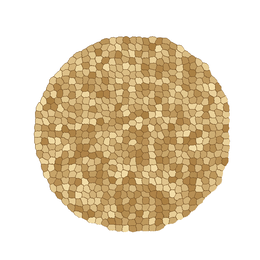
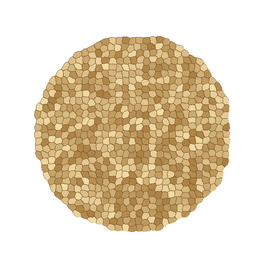
Complete chemotaxis (42) and growth-stopped core (36) results in the dial explorer

Changed region(s): [[0.1231, 0.1231, 0.8923, 0.8923]]

diff --git a/dials.js b/dials.js
@@ -1,1 +1,1 @@
-var DIALS={"mcs":[0,200,400,600,800,990],"dials":[{"key":"I","name":"Chemical attraction","desc":"Cells release a signal and move toward it (positive) or away from it (negative). The strength range is still a placeholder.","new":true,"prefer":"d","partial":"24 of 42 runs in","levels":[{"label":"-15","value":-15.0,"vid":"I04","seeds":3,"expected":6,"frames":["img/dial/I04_0000.png","img/dial/I04_0200.png","img/dial/I04_0400.png","img/dial/I04_0600.png","img/dial/I04_0800.png","img/dial/I04_0990.png"],"m":{"d":{"mean":[499.481,522.981,547.371,567.117,580.583,584.914],"sd":[0.0,0.154,0.23,0.081,0.421,2.182]},"c":{"mean":[0.656,0.993,0.931,0.864,0.776,0.552],"sd":[0.0,0.024,0.032,0.044,0.054,0.093]},"s":{"mean":[0.968,0.987,0.982,0.973,0.962,0.928],"sd":[0.0,0.002,0.002,0.004,0.008,0.025]},"n":{"mean":[1.0,1.0,1.0,1.0,1.0,1.0],"sd":[0.0,0.0,0.0,0.0,0.0,0.0]}}},{"label":"-5","value":-5.0,"vid":"I02","seeds":6,"expected":6,"frames":["img/dial/I02_0000.png","img/dial/I02_0200.png","img/dial/I02_0400.png","img/dial/I02_0600.png","img/dial/I02_0800.png","img/dial/I02_0990.png"],"m":{"d":{"mean":[499.481,505.81,514.066,520.825,525.466,528.377],"sd":[0.0,0.101,0.192,0.163,0.257,0.205]},"c":{"mean":[0.656,1.067,1.051,1.037,1.009,0.989],"sd":[0.0,0.004,0.005,0.009,0.014,0.014]},"s":{"mean":[0.968,0.988,0.987,0.984,0.98,0.977],"sd":[0.0,0.001,0.001,0.002,0.002,0.003]},"n":{"mean":[1.0,1.0,1.0,1.0,1.0,1.0],"sd":[0.0,0.0,0.0,0.0,0.0,0.0]}}},{"label":"0","value":0.0,"vid":"I01","seeds":6,"expected":6,"frames":["img/dial/I01_0000.png","img/dial/I01_0200.png","img/dial/I01_0400.png","img/dial/I01_0600.png","img/dial/I01_0800.png","img/dial/I01_0990.png"],"m":{"d":{"mean":[499.481,496.148,495.112,494.553,494.422,494.449],"sd":[0.0,0.108,0.143,0.109,0.19,0.069]},"c":{"mean":[0.656,1.078,1.086,1.092,1.092,1.091],"sd":[0.0,0.004,0.007,0.01,0.008,0.005]},"s":{"mean":[0.968,0.988,0.989,0.989,0.989,0.989],"sd":[0.0,0.0,0.001,0.001,0.001,0.001]},"n":{"mean":[1.0,1.0,1.0,1.0,1.0,1.0],"sd":[0.0,0.0,0.0,0.0,0.0,0.0]}}},{"label":"+5","value":5.0,"vid":"I03","seeds":6,"expected":6,"frames":["img/dial/I03_0000.png","img/dial/I03_0200.png","img/dial/I03_0400.png","img/dial/I03_0600.png","img/dial/I03_0800.png","img/dial/I03_0990.png"],"m":{"d":{"mean":[499.481,486.815,477.293,470.031,464.628,460.745],"sd":[0.0,0.175,0.165,0.116,0.137,0.191]},"c":{"mean":[0.656,1.068,1.08,1.09,1.08,1.085],"sd":[0.0,0.006,0.01,0.008,0.005,0.008]},"s":{"mean":[0.968,0.988,0.99,0.992,0.993,0.993],"sd":[0.0,0.001,0.001,0.001,0.001,0.0]},"n":{"mean":[1.0,1.0,1.0,1.0,1.0,1.0],"sd":[0.0,0.0,0.0,0.0,0.0,0.0]}}},{"label":"+15","value":15.0,"vid":"I05","seeds":2,"expected":6,"frames":["img/dial/I05_0000.png","img/dial/I05_0200.png","img/dial/I05_0400.png","img/dial/I05_0600.png","img/dial/I05_0800.png","img/dial/I05_0990.png"],"m":{"d":{"mean":[499.481,470.943,448.936,431.253,416.66,405.097],"sd":[0.0,0.075,0.056,0.049,0.399,0.34]},"c":{"mean":[0.656,1.007,0.995,0.987,0.954,0.953],"sd":[0.0,0.001,0.01,0.005,0.008,0.009]},"s":{"mean":[0.968,0.986,0.989,0.992,0.992,0.992],"sd":[0.0,0.0,0.001,0.001,0.0,0.0]},"n":{"mean":[1.0,1.0,1.0,1.0,1.0,1.0],"sd":[0.0,0.0,0.0,0.0,0.0,0.0]}}},{"label":"+30","value":30.0,"vid":"I07","seeds":1,"expected":6,"frames":["img/dial/I07_0000.png","img/dial/I07_0200.png","img/dial/I07_0400.png","img/dial/I07_0600.png","img/dial/I07_0800.png","img/dial/I07_0990.png"],"m":{"d":{"mean":[499.481,453.837,419.328,390.434,365.435,344.366],"sd":null},"c":{"mean":[0.656,0.903,0.843,0.83,0.801,0.784],"sd":null},"s":{"mean":[0.968,0.985,0.989,0.991,0.99,0.989],"sd":null},"n":{"mean":[1.0,1.0,1.0,1.0,1.0,1.0],"sd":null}}}]},{"key":"H","name":"Growth-stopped core","desc":"Cells grow at the rim but stop growing below a set depth. Smaller value means a larger stopped core.","new":true,"prefer":"d","partial":"26 of 36 runs in","levels":[{"label":"0.85","value":0.85,"vid":"H02","seeds":2,"expected":6,"frames":["img/dial/H02_0000.png","img/dial/H02_0200.png","img/dial/H02_0400.png","img/dial/H02_0600.png","img/dial/H02_0800.png","img/dial/H02_0990.png"],"m":{"d":{"mean":[499.481,499.878,505.055,512.05,519.776,527.329],"sd":[0.0,0.135,0.075,0.047,0.091,0.02]},"c":{"mean":[0.656,1.091,1.101,1.105,1.106,1.102],"sd":[0.0,0.01,0.005,0.009,0.004,0.012]},"s":{"mean":[0.968,0.99,0.992,0.992,0.992,0.993],"sd":[0.0,0.0,0.001,0.002,0.001,0.001]},"n":{"mean":[1.0,1.0,1.0,1.0,1.0,1.0],"sd":[0.0,0.0,0.0,0.0,0.0,0.0]}}},{"label":"0.7","value":0.7,"vid":"H03","seeds":6,"expected":6,"frames":["img/dial/H03_0000.png","img/dial/H03_0200.png","img/dial/H03_0400.png","img/dial/H03_0600.png","img/dial/H03_0800.png","img/dial/H03_0990.png"],"m":{"d":{"mean":[499.481,499.758,504.761,511.233,518.429,525.382],"sd":[0.0,0.127,0.07,0.105,0.217,0.177]},"c":{"mean":[0.656,1.088,1.097,1.097,1.1,1.096],"sd":[0.0,0.005,0.017,0.006,0.009,0.005]},"s":{"mean":[0.968,0.989,0.99,0.991,0.992,0.992],"sd":[0.0,0.001,0.001,0.001,0.001,0.001]},"n":{"mean":[1.0,1.0,1.0,1.0,1.0,1.0],"sd":[0.0,0.0,0.0,0.0,0.0,0.0]}}},{"label":"0.55","value":0.55,"vid":"H04","seeds":6,"expected":6,"frames":["img/dial/H04_0000.png","img/dial/H04_0200.png","img/dial/H04_0400.png","img/dial/H04_0600.png","img/dial/H04_0800.png","img/dial/H04_0990.png"],"m":{"d":{"mean":[499.481,499.654,504.111,509.787,515.959,521.998],"sd":[0.0,0.113,0.076,0.083,0.119,0.043]},"c":{"mean":[0.656,1.086,1.094,1.093,1.096,1.099],"sd":[0.0,0.011,0.007,0.005,0.011,0.01]},"s":{"mean":[0.968,0.989,0.991,0.991,0.991,0.991],"sd":[0.0,0.0,0.001,0.001,0.0,0.001]},"n":{"mean":[1.0,1.0,1.0,1.0,1.0,1.0],"sd":[0.0,0.0,0.0,0.0,0.0,0.0]}}},{"label":"0.4","value":0.4,"vid":"H05","seeds":6,"expected":6,"frames":["img/dial/H05_0000.png","img/dial/H05_0200.png","img/dial/H05_0400.png","img/dial/H05_0600.png","img/dial/H05_0800.png","img/dial/H05_0990.png"],"m":{"d":{"mean":[499.481,499.201,502.784,507.344,512.304,517.131],"sd":[0.0,0.175,0.097,0.101,0.045,0.144]},"c":{"mean":[0.656,1.081,1.099,1.093,1.092,1.095],"sd":[0.0,0.012,0.013,0.011,0.011,0.008]},"s":{"mean":[0.968,0.989,0.99,0.99,0.991,0.991],"sd":[0.0,0.001,0.001,0.001,0.001,0.001]},"n":{"mean":[1.0,1.0,1.0,1.0,1.0,1.0],"sd":[0.0,0.0,0.0,0.0,0.0,0.0]}}},{"label":"0.25","value":0.25,"vid":"H06","seeds":6,"expected":6,"frames":["img/dial/H06_0000.png","img/dial/H06_0200.png","img/dial/H06_0400.png","img/dial/H06_0600.png","img/dial/H06_0800.png","img/dial/H06_0990.png"],"m":{"d":{"mean":[499.481,498.67,500.852,503.911,507.148,510.335],"sd":[0.0,0.146,0.131,0.078,0.097,0.1]},"c":{"mean":[0.656,1.093,1.095,1.092,1.096,1.094],"sd":[0.0,0.007,0.005,0.009,0.01,0.013]},"s":{"mean":[0.968,0.988,0.99,0.991,0.991,0.99],"sd":[0.0,0.001,0.001,0.001,0.001,0.001]},"n":{"mean":[1.0,1.0,1.0,1.0,1.0,1.0],"sd":[0.0,0.0,0.0,0.0,0.0,0.0]}}}]},{"key":"J_cc","name":"Cell-cell contact energy","desc":"How costly it is for two cells to touch. Low holds the cluster together; high loosens it.","levels":[{"label":"low","value":1.0,"vid":"R0001","seeds":6,"frames":["img/dial/R0001_0000.png","img/dial/R0001_0200.png","img/dial/R0001_0400.png","img/dial/R0001_0600.png","img/dial/R0001_0800.png","img/dial/R0001_0990.png"],"m":{"d":{"mean":[499.481,498.584,498.515,498.499,498.462,498.523],"sd":[0.0,0.19,0.149,0.11,0.163,0.125]},"c":{"mean":[0.656,1.161,1.159,1.163,1.161,1.163],"sd":[0.0,0.011,0.009,0.005,0.004,0.005]},"s":{"mean":[0.968,0.996,0.997,0.997,0.997,0.997],"sd":[0.0,0.0,0.0,0.0,0.0,0.0]},"n":{"mean":[1.0,1.0,1.0,1.0,1.0,1.0],"sd":[0.0,0.0,0.0,0.0,0.0,0.0]}}},{"label":"mid","value":25.0,"vid":"R0002","seeds":6,"frames":["img/dial/R0002_0000.png","img/dial/R0002_0200.png","img/dial/R0002_0400.png","img/dial/R0002_0600.png","img/dial/R0002_0800.png","img/dial/R0002_0990.png"],"m":{"d":{"mean":[499.481,495.871,494.866,494.257,493.997,493.857],"sd":[0.0,0.072,0.141,0.088,0.104,0.128]},"c":{"mean":[0.656,1.068,1.084,1.084,1.076,1.08],"sd":[0.0,0.009,0.011,0.01,0.003,0.006]},"s":{"mean":[0.968,0.987,0.988,0.989,0.988,0.989],"sd":[0.0,0.001,0.001,0.001,0.002,0.001]},"n":{"mean":[1.0,1.0,1.0,1.0,1.0,1.0],"sd":[0.0,0.0,0.0,0.0,0.0,0.0]}}},{"label":"high","value":50.0,"vid":"R0003","seeds":6,"frames":["img/dial/R0003_0000.png","img/dial/R0003_0200.png","img/dial/R0003_0400.png","img/dial/R0003_0600.png","img/dial/R0003_0800.png","img/dial/R0003_0990.png"],"m":{"d":{"mean":[499.481,494.225,492.595,491.523,490.923,490.506],"sd":[0.0,0.108,0.203,0.208,0.198,0.143]},"c":{"mean":[0.656,0.662,0.692,0.706,0.716,0.732],"sd":[0.0,0.018,0.021,0.017,0.011,0.02]},"s":{"mean":[0.968,0.963,0.961,0.961,0.96,0.961],"sd":[0.0,0.001,0.002,0.002,0.002,0.001]},"n":{"mean":[1.0,1.0,1.0,1.0,1.0,1.0],"sd":[0.0,0.0,0.0,0.0,0.0,0.0]}}}]},{"key":"J_cm","name":"Cell-medium contact energy","desc":"How costly it is for a cell to touch the surrounding medium. Low lets cells spread out into it.","levels":[{"label":"low","value":1.0,"vid":"R0004","seeds":6,"frames":["img/dial/R0004_0000.png","img/dial/R0004_0200.png","img/dial/R0004_0400.png","img/dial/R0004_0600.png","img/dial/R0004_0800.png","img/dial/R0004_0990.png"],"m":{"d":{"mean":[499.481,354.064,284.598,182.991,66.885,45.01],"sd":[0.0,7.692,4.501,18.603,10.852,4.261]},"c":{"mean":[0.656,0.006,0.004,0.007,0.05,0.086],"sd":[0.0,0.001,0.0,0.002,0.014,0.016]},"s":{"mean":[0.968,0.743,0.68,0.604,0.573,0.618],"sd":[0.0,0.02,0.02,0.035,0.044,0.077]},"n":{"mean":[1.0,270.167,374.667,469.333,573.333,616.333],"sd":[0.0,4.535,6.772,11.021,6.743,5.854]}}},{"label":"mid","value":20.0,"vid":"R0005","seeds":6,"frames":["img/dial/R0005_0000.png","img/dial/R0005_0200.png","img/dial/R0005_0400.png","img/dial/R0005_0600.png","img/dial/R0005_0800.png","img/dial/R0005_0990.png"],"m":{"d":{"mean":[499.481,495.968,495.168,494.688,494.408,494.501],"sd":[0.0,0.176,0.089,0.179,0.099,0.131]},"c":{"mean":[0.656,0.922,0.929,0.926,0.933,0.938],"sd":[0.0,0.017,0.022,0.016,0.008,0.022]},"s":{"mean":[0.968,0.978,0.979,0.978,0.978,0.978],"sd":[0.0,0.002,0.002,0.001,0.002,0.002]},"n":{"mean":[1.0,1.0,1.0,1.0,1.0,1.0],"sd":[0.0,0.0,0.0,0.0,0.0,0.0]}}},{"label":"high","value":50.0,"vid":"R0006","seeds":6,"frames":["img/dial/R0006_0000.png","img/dial/R0006_0200.png","img/dial/R0006_0400.png","img/dial/R0006_0600.png","img/dial/R0006_0800.png","img/dial/R0006_0990.png"],"m":{"d":{"mean":[499.481,496.552,495.269,494.656,494.301,494.102],"sd":[0.0,0.116,0.139,0.176,0.139,0.136]},"c":{"mean":[0.656,1.164,1.168,1.166,1.166,1.165],"sd":[0.0,0.006,0.005,0.007,0.007,0.008]},"s":{"mean":[0.968,0.994,0.995,0.995,0.996,0.995],"sd":[0.0,0.001,0.0,0.001,0.0,0.001]},"n":{"mean":[1.0,1.0,1.0,1.0,1.0,1.0],"sd":[0.0,0.0,0.0,0.0,0.0,0.0]}}}]},{"key":"temp","name":"Motility","desc":"How much random movement cell edges make.","levels":[{"label":"low","value":2.0,"vid":"R0007","seeds":6,"frames":["img/dial/R0007_0000.png","img/dial/R0007_0200.png","img/dial/R0007_0400.png","img/dial/R0007_0600.png","img/dial/R0007_0800.png","img/dial/R0007_0990.png"],"m":{"d":{"mean":[499.481,499.276,499.236,499.215,499.193,499.183],"sd":[0.0,0.008,0.011,0.015,0.012,0.015]},"c":{"mean":[0.656,1.021,1.029,1.032,1.033,1.033],"sd":[0.0,0.004,0.002,0.003,0.003,0.004]},"s":{"mean":[0.968,0.986,0.986,0.986,0.986,0.986],"sd":[0.0,0.0,0.0,0.0,0.0,0.0]},"n":{"mean":[1.0,1.0,1.0,1.0,1.0,1.0],"sd":[0.0,0.0,0.0,0.0,0.0,0.0]}}},{"label":"mid","value":30.0,"vid":"R0008","seeds":6,"frames":["img/dial/R0008_0000.png","img/dial/R0008_0200.png","img/dial/R0008_0400.png","img/dial/R0008_0600.png","img/dial/R0008_0800.png","img/dial/R0008_0990.png"],"m":{"d":{"mean":[499.481,496.308,495.258,494.708,494.498,494.424],"sd":[0.0,0.053,0.112,0.029,0.087,0.123]},"c":{"mean":[0.656,1.101,1.11,1.114,1.11,1.111],"sd":[0.0,0.007,0.01,0.003,0.005,0.01]},"s":{"mean":[0.968,0.989,0.99,0.991,0.991,0.991],"sd":[0.0,0.001,0.001,0.001,0.0,0.001]},"n":{"mean":[1.0,1.0,1.0,1.0,1.0,1.0],"sd":[0.0,0.0,0.0,0.0,0.0,0.0]}}},{"label":"high","value":75.0,"vid":"R0009","seeds":6,"frames":["img/dial/R0009_0000.png","img/dial/R0009_0200.png","img/dial/R0009_0400.png","img/dial/R0009_0600.png","img/dial/R0009_0800.png","img/dial/R0009_0990.png"],"m":{"d":{"mean":[499.481,496.051,494.902,494.413,494.193,494.149],"sd":[0.0,0.211,0.179,0.107,0.118,0.193]},"c":{"mean":[0.656,0.966,0.985,0.993,0.989,0.985],"sd":[0.0,0.012,0.012,0.014,0.007,0.023]},"s":{"mean":[0.968,0.985,0.986,0.987,0.987,0.987],"sd":[0.0,0.001,0.001,0.001,0.001,0.001]},"n":{"mean":[1.0,1.0,1.0,1.0,1.0,1.0],"sd":[0.0,0.0,0.0,0.0,0.0,0.0]}}}]},{"key":"lambda","name":"Size stiffness","desc":"How strictly each cell keeps its target size.","levels":[{"label":"low","value":0.1,"vid":"R0010","seeds":6,"frames":["img/dial/R0010_0000.png","img/dial/R0010_0200.png","img/dial/R0010_0400.png","img/dial/R0010_0600.png","img/dial/R0010_0800.png","img/dial/R0010_0990.png"],"m":{"d":{"mean":[499.481,488.7,481.88,476.695,472.194,468.491],"sd":[0.0,0.323,0.43,0.446,0.387,0.461]},"c":{"mean":[0.656,1.084,1.08,1.086,1.091,1.093],"sd":[0.0,0.008,0.01,0.005,0.012,0.006]},"s":{"mean":[0.968,0.988,0.988,0.989,0.99,0.99],"sd":[0.0,0.001,0.001,0.001,0.001,0.001]},"n":{"mean":[1.0,1.0,1.0,1.0,1.0,1.0],"sd":[0.0,0.0,0.0,0.0,0.0,0.0]}}},{"label":"mid","value":2.5,"vid":"R0011","seeds":6,"frames":["img/dial/R0011_0000.png","img/dial/R0011_0200.png","img/dial/R0011_0400.png","img/dial/R0011_0600.png","img/dial/R0011_0800.png","img/dial/R0011_0990.png"],"m":{"d":{"mean":[499.481,497.082,496.632,496.524,496.558,496.558],"sd":[0.0,0.107,0.115,0.105,0.135,0.085]},"c":{"mean":[0.656,1.082,1.095,1.092,1.099,1.091],"sd":[0.0,0.013,0.006,0.014,0.01,0.01]},"s":{"mean":[0.968,0.989,0.99,0.989,0.99,0.99],"sd":[0.0,0.0,0.0,0.001,0.001,0.001]},"n":{"mean":[1.0,1.0,1.0,1.0,1.0,1.0],"sd":[0.0,0.0,0.0,0.0,0.0,0.0]}}},{"label":"high","value":20.0,"vid":"R0012","seeds":6,"frames":["img/dial/R0012_0000.png","img/dial/R0012_0200.png","img/dial/R0012_0400.png","img/dial/R0012_0600.png","img/dial/R0012_0800.png","img/dial/R0012_0990.png"],"m":{"d":{"mean":[499.481,499.115,499.109,499.133,499.129,499.133],"sd":[0.0,0.031,0.036,0.03,0.023,0.022]},"c":{"mean":[0.656,1.076,1.087,1.09,1.091,1.095],"sd":[0.0,0.005,0.008,0.01,0.01,0.012]},"s":{"mean":[0.968,0.989,0.99,0.99,0.99,0.99],"sd":[0.0,0.001,0.0,0.001,0.001,0.001]},"n":{"mean":[1.0,1.0,1.0,1.0,1.0,1.0],"sd":[0.0,0.0,0.0,0.0,0.0,0.0]}}}]},{"key":"contact_no","name":"Contact range","desc":"How far apart pixels can be and still count as touching.","levels":[{"label":"low","value":1.0,"vid":"R0013","seeds":6,"frames":["img/dial/R0013_0000.png","img/dial/R0013_0200.png","img/dial/R0013_0400.png","img/dial/R0013_0600.png","img/dial/R0013_0800.png","img/dial/R0013_0990.png"],"m":{"d":{"mean":[499.481,498.67,498.533,498.538,498.585,498.509],"sd":[0.0,0.127,0.083,0.107,0.154,0.049]},"c":{"mean":[0.656,0.69,0.704,0.706,0.71,0.713],"sd":[0.0,0.023,0.022,0.03,0.025,0.016]},"s":{"mean":[0.968,0.972,0.974,0.975,0.975,0.976],"sd":[0.0,0.002,0.001,0.003,0.002,0.001]},"n":{"mean":[1.0,1.0,1.0,1.0,1.0,1.0],"sd":[0.0,0.0,0.0,0.0,0.0,0.0]}}},{"label":"mid","value":5.0,"vid":"R0014","seeds":6,"frames":["img/dial/R0014_0000.png","img/dial/R0014_0200.png","img/dial/R0014_0400.png","img/dial/R0014_0600.png","img/dial/R0014_0800.png","img/dial/R0014_0990.png"],"m":{"d":{"mean":[499.481,495.343,494.059,493.336,492.99,492.863],"sd":[0.0,0.174,0.111,0.113,0.193,0.233]},"c":{"mean":[0.656,1.144,1.152,1.149,1.146,1.153],"sd":[0.0,0.011,0.007,0.006,0.01,0.011]},"s":{"mean":[0.968,0.989,0.989,0.989,0.989,0.989],"sd":[0.0,0.001,0.001,0.001,0.001,0.001]},"n":{"mean":[1.0,1.0,1.0,1.0,1.0,1.0],"sd":[0.0,0.0,0.0,0.0,0.0,0.0]}}},{"label":"high","value":8.0,"vid":"R0015","seeds":6,"frames":["img/dial/R0015_0000.png","img/dial/R0015_0200.png","img/dial/R0015_0400.png","img/dial/R0015_0600.png","img/dial/R0015_0800.png","img/dial/R0015_0990.png"],"m":{"d":{"mean":[499.481,491.545,488.449,486.722,485.518,484.858],"sd":[0.0,0.077,0.086,0.079,0.069,0.077]},"c":{"mean":[0.656,1.162,1.162,1.163,1.164,1.165],"sd":[0.0,0.005,0.01,0.01,0.006,0.007]},"s":{"mean":[0.968,0.992,0.992,0.992,0.992,0.992],"sd":[0.0,0.001,0.001,0.001,0.001,0.001]},"n":{"mean":[1.0,1.0,1.0,1.0,1.0,1.0],"sd":[0.0,0.0,0.0,0.0,0.0,0.0]}}}]},{"key":"init_width","name":"Starting cell size","desc":"Size of each cell at the start, which sets how many cells fill the same blob.","levels":[{"label":"low","value":10.0,"vid":"R0016","seeds":6,"frames":["img/dial/R0016_0000.png","img/dial/R0016_0200.png","img/dial/R0016_0400.png","img/dial/R0016_0600.png","img/dial/R0016_0800.png","img/dial/R0016_0990.png"],"m":{"d":{"mean":[499.682,491.666,487.906,485.456,483.466,481.881],"sd":[0.0,0.246,0.161,0.125,0.19,0.167]},"c":{"mean":[0.655,1.098,1.107,1.108,1.106,1.111],"sd":[0.0,0.01,0.01,0.012,0.01,0.008]},"s":{"mean":[0.978,0.991,0.992,0.993,0.993,0.992],"sd":[0.0,0.001,0.001,0.001,0.0,0.001]},"n":{"mean":[1.0,1.0,1.0,1.0,1.0,1.0],"sd":[0.0,0.0,0.0,0.0,0.0,0.0]}}},{"label":"mid","value":14.0,"vid":"R0017","seeds":6,"frames":["img/dial/R0017_0000.png","img/dial/R0017_0200.png","img/dial/R0017_0400.png","img/dial/R0017_0600.png","img/dial/R0017_0800.png","img/dial/R0017_0990.png"],"m":{"d":{"mean":[499.305,494.721,492.816,491.758,491.086,490.687],"sd":[0.0,0.089,0.14,0.191,0.233,0.238]},"c":{"mean":[0.668,1.082,1.086,1.095,1.089,1.095],"sd":[0.0,0.014,0.012,0.011,0.007,0.006]},"s":{"mean":[0.975,0.99,0.99,0.991,0.99,0.991],"sd":[0.0,0.001,0.001,0.001,0.001,0.001]},"n":{"mean":[1.0,1.0,1.0,1.0,1.0,1.0],"sd":[0.0,0.0,0.0,0.0,0.0,0.0]}}},{"label":"high","value":20.0,"vid":"R0018","seeds":6,"frames":["img/dial/R0018_0000.png","img/dial/R0018_0200.png","img/dial/R0018_0400.png","img/dial/R0018_0600.png","img/dial/R0018_0800.png","img/dial/R0018_0990.png"],"m":{"d":{"mean":[499.555,497.152,496.564,496.322,496.352,496.223],"sd":[0.0,0.1,0.145,0.119,0.111,0.125]},"c":{"mean":[0.635,1.073,1.08,1.089,1.089,1.087],"sd":[0.0,0.009,0.007,0.01,0.013,0.011]},"s":{"mean":[0.958,0.984,0.986,0.987,0.987,0.987],"sd":[0.0,0.001,0.001,0.001,0.001,0.001]},"n":{"mean":[1.0,1.0,1.0,1.0,1.0,1.0],"sd":[0.0,0.0,0.0,0.0,0.0,0.0]}}}]}]};
+var DIALS={"mcs":[0,200,400,600,800,990],"dials":[{"key":"I","name":"Chemical attraction","desc":"Cells release a signal and move toward it (positive) or away from it (negative). The strength range is still a placeholder.","new":true,"prefer":"d","partial":"Complete, all 42 runs","levels":[{"label":"-30","value":-30.0,"vid":"I06","seeds":6,"expected":6,"frames":["img/dial/I06_0000.png","img/dial/I06_0200.png","img/dial/I06_0400.png","img/dial/I06_0600.png","img/dial/I06_0800.png","img/dial/I06_0990.png"],"m":{"d":{"mean":[499.481,542.272,584.966,619.642,643.486,638.553],"sd":[0.0,0.189,0.21,0.373,1.193,10.397]},"c":{"mean":[0.656,0.884,0.831,0.781,0.638,0.282],"sd":[0.0,0.013,0.011,0.008,0.032,0.063]},"s":{"mean":[0.968,0.985,0.98,0.974,0.96,0.876],"sd":[0.0,0.001,0.001,0.002,0.004,0.035]},"n":{"mean":[1.0,1.0,1.0,1.0,1.0,4.0],"sd":[0.0,0.0,0.0,0.0,0.0,2.28]}}},{"label":"-15","value":-15.0,"vid":"I04","seeds":6,"expected":6,"frames":["img/dial/I04_0000.png","img/dial/I04_0200.png","img/dial/I04_0400.png","img/dial/I04_0600.png","img/dial/I04_0800.png","img/dial/I04_0990.png"],"m":{"d":{"mean":[499.481,523.044,547.397,566.874,580.233,585.328],"sd":[0.0,0.123,0.191,0.288,0.468,1.727]},"c":{"mean":[0.656,0.999,0.934,0.868,0.791,0.59],"sd":[0.0,0.019,0.023,0.029,0.046,0.092]},"s":{"mean":[0.968,0.987,0.982,0.974,0.963,0.934],"sd":[0.0,0.001,0.001,0.003,0.006,0.019]},"n":{"mean":[1.0,1.0,1.0,1.0,1.0,1.0],"sd":[0.0,0.0,0.0,0.0,0.0,0.0]}}},{"label":"-5","value":-5.0,"vid":"I02","seeds":6,"expected":6,"frames":["img/dial/I02_0000.png","img/dial/I02_0200.png","img/dial/I02_0400.png","img/dial/I02_0600.png","img/dial/I02_0800.png","img/dial/I02_0990.png"],"m":{"d":{"mean":[499.481,505.81,514.066,520.825,525.466,528.377],"sd":[0.0,0.101,0.192,0.163,0.257,0.205]},"c":{"mean":[0.656,1.067,1.051,1.037,1.009,0.989],"sd":[0.0,0.004,0.005,0.009,0.014,0.014]},"s":{"mean":[0.968,0.988,0.987,0.984,0.98,0.977],"sd":[0.0,0.001,0.001,0.002,0.002,0.003]},"n":{"mean":[1.0,1.0,1.0,1.0,1.0,1.0],"sd":[0.0,0.0,0.0,0.0,0.0,0.0]}}},{"label":"0","value":0.0,"vid":"I01","seeds":6,"expected":6,"frames":["img/dial/I01_0000.png","img/dial/I01_0200.png","img/dial/I01_0400.png","img/dial/I01_0600.png","img/dial/I01_0800.png","img/dial/I01_0990.png"],"m":{"d":{"mean":[499.481,496.148,495.112,494.553,494.422,494.449],"sd":[0.0,0.108,0.143,0.109,0.19,0.069]},"c":{"mean":[0.656,1.078,1.086,1.092,1.092,1.091],"sd":[0.0,0.004,0.007,0.01,0.008,0.005]},"s":{"mean":[0.968,0.988,0.989,0.989,0.989,0.989],"sd":[0.0,0.0,0.001,0.001,0.001,0.001]},"n":{"mean":[1.0,1.0,1.0,1.0,1.0,1.0],"sd":[0.0,0.0,0.0,0.0,0.0,0.0]}}},{"label":"+5","value":5.0,"vid":"I03","seeds":6,"expected":6,"frames":["img/dial/I03_0000.png","img/dial/I03_0200.png","img/dial/I03_0400.png","img/dial/I03_0600.png","img/dial/I03_0800.png","img/dial/I03_0990.png"],"m":{"d":{"mean":[499.481,486.815,477.293,470.031,464.628,460.745],"sd":[0.0,0.175,0.165,0.116,0.137,0.191]},"c":{"mean":[0.656,1.068,1.08,1.09,1.08,1.085],"sd":[0.0,0.006,0.01,0.008,0.005,0.008]},"s":{"mean":[0.968,0.988,0.99,0.992,0.993,0.993],"sd":[0.0,0.001,0.001,0.001,0.001,0.0]},"n":{"mean":[1.0,1.0,1.0,1.0,1.0,1.0],"sd":[0.0,0.0,0.0,0.0,0.0,0.0]}}},{"label":"+15","value":15.0,"vid":"I05","seeds":6,"expected":6,"frames":["img/dial/I05_0000.png","img/dial/I05_0200.png","img/dial/I05_0400.png","img/dial/I05_0600.png","img/dial/I05_0800.png","img/dial/I05_0990.png"],"m":{"d":{"mean":[499.481,471.0,448.879,431.126,416.644,405.011],"sd":[0.0,0.068,0.198,0.196,0.302,0.264]},"c":{"mean":[0.656,1.006,0.991,0.982,0.965,0.952],"sd":[0.0,0.008,0.007,0.014,0.011,0.009]},"s":{"mean":[0.968,0.986,0.99,0.991,0.992,0.992],"sd":[0.0,0.001,0.001,0.001,0.0,0.0]},"n":{"mean":[1.0,1.0,1.0,1.0,1.0,1.0],"sd":[0.0,0.0,0.0,0.0,0.0,0.0]}}},{"label":"+30","value":30.0,"vid":"I07","seeds":6,"expected":6,"frames":["img/dial/I07_0000.png","img/dial/I07_0200.png","img/dial/I07_0400.png","img/dial/I07_0600.png","img/dial/I07_0800.png","img/dial/I07_0990.png"],"m":{"d":{"mean":[499.481,453.922,419.267,390.521,365.494,344.315],"sd":[0.0,0.187,0.097,0.109,0.097,0.153]},"c":{"mean":[0.656,0.907,0.86,0.822,0.8,0.781],"sd":[0.0,0.013,0.012,0.02,0.014,0.03]},"s":{"mean":[0.968,0.984,0.988,0.989,0.989,0.989],"sd":[0.0,0.001,0.001,0.001,0.001,0.001]},"n":{"mean":[1.0,1.0,1.0,1.0,1.0,1.0],"sd":[0.0,0.0,0.0,0.0,0.0,0.0]}}}]},{"key":"H","name":"Growth-stopped core","desc":"Cells grow at the rim but stop growing below a set depth. Smaller value means a larger stopped core.","new":true,"prefer":"d","partial":"Complete, all 36 runs","levels":[{"label":"1","value":1.0,"vid":"H01","seeds":6,"expected":6,"frames":["img/dial/H01_0000.png","img/dial/H01_0200.png","img/dial/H01_0400.png","img/dial/H01_0600.png","img/dial/H01_0800.png","img/dial/H01_0990.png"],"m":{"d":{"mean":[499.481,499.844,505.242,512.39,520.269,527.998],"sd":[0.0,0.113,0.089,0.105,0.132,0.077]},"c":{"mean":[0.656,1.09,1.096,1.097,1.095,1.095],"sd":[0.0,0.013,0.011,0.01,0.004,0.007]},"s":{"mean":[0.968,0.989,0.991,0.991,0.991,0.992],"sd":[0.0,0.001,0.001,0.001,0.001,0.001]},"n":{"mean":[1.0,1.0,1.0,1.0,1.0,1.0],"sd":[0.0,0.0,0.0,0.0,0.0,0.0]}}},{"label":"0.85","value":0.85,"vid":"H02","seeds":6,"expected":6,"frames":["img/dial/H02_0000.png","img/dial/H02_0200.png","img/dial/H02_0400.png","img/dial/H02_0600.png","img/dial/H02_0800.png","img/dial/H02_0990.png"],"m":{"d":{"mean":[499.481,499.909,505.154,512.138,519.842,527.438],"sd":[0.0,0.078,0.115,0.11,0.085,0.14]},"c":{"mean":[0.656,1.087,1.093,1.098,1.098,1.101],"sd":[0.0,0.007,0.01,0.01,0.009,0.007]},"s":{"mean":[0.968,0.989,0.991,0.991,0.991,0.991],"sd":[0.0,0.001,0.001,0.001,0.001,0.001]},"n":{"mean":[1.0,1.0,1.0,1.0,1.0,1.0],"sd":[0.0,0.0,0.0,0.0,0.0,0.0]}}},{"label":"0.7","value":0.7,"vid":"H03","seeds":6,"expected":6,"frames":["img/dial/H03_0000.png","img/dial/H03_0200.png","img/dial/H03_0400.png","img/dial/H03_0600.png","img/dial/H03_0800.png","img/dial/H03_0990.png"],"m":{"d":{"mean":[499.481,499.758,504.761,511.233,518.429,525.382],"sd":[0.0,0.127,0.07,0.105,0.217,0.177]},"c":{"mean":[0.656,1.088,1.097,1.097,1.1,1.096],"sd":[0.0,0.005,0.017,0.006,0.009,0.005]},"s":{"mean":[0.968,0.989,0.99,0.991,0.992,0.992],"sd":[0.0,0.001,0.001,0.001,0.001,0.001]},"n":{"mean":[1.0,1.0,1.0,1.0,1.0,1.0],"sd":[0.0,0.0,0.0,0.0,0.0,0.0]}}},{"label":"0.55","value":0.55,"vid":"H04","seeds":6,"expected":6,"frames":["img/dial/H04_0000.png","img/dial/H04_0200.png","img/dial/H04_0400.png","img/dial/H04_0600.png","img/dial/H04_0800.png","img/dial/H04_0990.png"],"m":{"d":{"mean":[499.481,499.654,504.111,509.787,515.959,521.998],"sd":[0.0,0.113,0.076,0.083,0.119,0.043]},"c":{"mean":[0.656,1.086,1.094,1.093,1.096,1.099],"sd":[0.0,0.011,0.007,0.005,0.011,0.01]},"s":{"mean":[0.968,0.989,0.991,0.991,0.991,0.991],"sd":[0.0,0.0,0.001,0.001,0.0,0.001]},"n":{"mean":[1.0,1.0,1.0,1.0,1.0,1.0],"sd":[0.0,0.0,0.0,0.0,0.0,0.0]}}},{"label":"0.4","value":0.4,"vid":"H05","seeds":6,"expected":6,"frames":["img/dial/H05_0000.png","img/dial/H05_0200.png","img/dial/H05_0400.png","img/dial/H05_0600.png","img/dial/H05_0800.png","img/dial/H05_0990.png"],"m":{"d":{"mean":[499.481,499.201,502.784,507.344,512.304,517.131],"sd":[0.0,0.175,0.097,0.101,0.045,0.144]},"c":{"mean":[0.656,1.081,1.099,1.093,1.092,1.095],"sd":[0.0,0.012,0.013,0.011,0.011,0.008]},"s":{"mean":[0.968,0.989,0.99,0.99,0.991,0.991],"sd":[0.0,0.001,0.001,0.001,0.001,0.001]},"n":{"mean":[1.0,1.0,1.0,1.0,1.0,1.0],"sd":[0.0,0.0,0.0,0.0,0.0,0.0]}}},{"label":"0.25","value":0.25,"vid":"H06","seeds":6,"expected":6,"frames":["img/dial/H06_0000.png","img/dial/H06_0200.png","img/dial/H06_0400.png","img/dial/H06_0600.png","img/dial/H06_0800.png","img/dial/H06_0990.png"],"m":{"d":{"mean":[499.481,498.67,500.852,503.911,507.148,510.335],"sd":[0.0,0.146,0.131,0.078,0.097,0.1]},"c":{"mean":[0.656,1.093,1.095,1.092,1.096,1.094],"sd":[0.0,0.007,0.005,0.009,0.01,0.013]},"s":{"mean":[0.968,0.988,0.99,0.991,0.991,0.99],"sd":[0.0,0.001,0.001,0.001,0.001,0.001]},"n":{"mean":[1.0,1.0,1.0,1.0,1.0,1.0],"sd":[0.0,0.0,0.0,0.0,0.0,0.0]}}}]},{"key":"J_cc","name":"Cell-cell contact energy","desc":"How costly it is for two cells to touch. Low holds the cluster together; high loosens it.","levels":[{"label":"low","value":1.0,"vid":"R0001","seeds":6,"frames":["img/dial/R0001_0000.png","img/dial/R0001_0200.png","img/dial/R0001_0400.png","img/dial/R0001_0600.png","img/dial/R0001_0800.png","img/dial/R0001_0990.png"],"m":{"d":{"mean":[499.481,498.584,498.515,498.499,498.462,498.523],"sd":[0.0,0.19,0.149,0.11,0.163,0.125]},"c":{"mean":[0.656,1.161,1.159,1.163,1.161,1.163],"sd":[0.0,0.011,0.009,0.005,0.004,0.005]},"s":{"mean":[0.968,0.996,0.997,0.997,0.997,0.997],"sd":[0.0,0.0,0.0,0.0,0.0,0.0]},"n":{"mean":[1.0,1.0,1.0,1.0,1.0,1.0],"sd":[0.0,0.0,0.0,0.0,0.0,0.0]}}},{"label":"mid","value":25.0,"vid":"R0002","seeds":6,"frames":["img/dial/R0002_0000.png","img/dial/R0002_0200.png","img/dial/R0002_0400.png","img/dial/R0002_0600.png","img/dial/R0002_0800.png","img/dial/R0002_0990.png"],"m":{"d":{"mean":[499.481,495.871,494.866,494.257,493.997,493.857],"sd":[0.0,0.072,0.141,0.088,0.104,0.128]},"c":{"mean":[0.656,1.068,1.084,1.084,1.076,1.08],"sd":[0.0,0.009,0.011,0.01,0.003,0.006]},"s":{"mean":[0.968,0.987,0.988,0.989,0.988,0.989],"sd":[0.0,0.001,0.001,0.001,0.002,0.001]},"n":{"mean":[1.0,1.0,1.0,1.0,1.0,1.0],"sd":[0.0,0.0,0.0,0.0,0.0,0.0]}}},{"label":"high","value":50.0,"vid":"R0003","seeds":6,"frames":["img/dial/R0003_0000.png","img/dial/R0003_0200.png","img/dial/R0003_0400.png","img/dial/R0003_0600.png","img/dial/R0003_0800.png","img/dial/R0003_0990.png"],"m":{"d":{"mean":[499.481,494.225,492.595,491.523,490.923,490.506],"sd":[0.0,0.108,0.203,0.208,0.198,0.143]},"c":{"mean":[0.656,0.662,0.692,0.706,0.716,0.732],"sd":[0.0,0.018,0.021,0.017,0.011,0.02]},"s":{"mean":[0.968,0.963,0.961,0.961,0.96,0.961],"sd":[0.0,0.001,0.002,0.002,0.002,0.001]},"n":{"mean":[1.0,1.0,1.0,1.0,1.0,1.0],"sd":[0.0,0.0,0.0,0.0,0.0,0.0]}}}]},{"key":"J_cm","name":"Cell-medium contact energy","desc":"How costly it is for a cell to touch the surrounding medium. Low lets cells spread out into it.","levels":[{"label":"low","value":1.0,"vid":"R0004","seeds":6,"frames":["img/dial/R0004_0000.png","img/dial/R0004_0200.png","img/dial/R0004_0400.png","img/dial/R0004_0600.png","img/dial/R0004_0800.png","img/dial/R0004_0990.png"],"m":{"d":{"mean":[499.481,354.064,284.598,182.991,66.885,45.01],"sd":[0.0,7.692,4.501,18.603,10.852,4.261]},"c":{"mean":[0.656,0.006,0.004,0.007,0.05,0.086],"sd":[0.0,0.001,0.0,0.002,0.014,0.016]},"s":{"mean":[0.968,0.743,0.68,0.604,0.573,0.618],"sd":[0.0,0.02,0.02,0.035,0.044,0.077]},"n":{"mean":[1.0,270.167,374.667,469.333,573.333,616.333],"sd":[0.0,4.535,6.772,11.021,6.743,5.854]}}},{"label":"mid","value":20.0,"vid":"R0005","seeds":6,"frames":["img/dial/R0005_0000.png","img/dial/R0005_0200.png","img/dial/R0005_0400.png","img/dial/R0005_0600.png","img/dial/R0005_0800.png","img/dial/R0005_0990.png"],"m":{"d":{"mean":[499.481,495.968,495.168,494.688,494.408,494.501],"sd":[0.0,0.176,0.089,0.179,0.099,0.131]},"c":{"mean":[0.656,0.922,0.929,0.926,0.933,0.938],"sd":[0.0,0.017,0.022,0.016,0.008,0.022]},"s":{"mean":[0.968,0.978,0.979,0.978,0.978,0.978],"sd":[0.0,0.002,0.002,0.001,0.002,0.002]},"n":{"mean":[1.0,1.0,1.0,1.0,1.0,1.0],"sd":[0.0,0.0,0.0,0.0,0.0,0.0]}}},{"label":"high","value":50.0,"vid":"R0006","seeds":6,"frames":["img/dial/R0006_0000.png","img/dial/R0006_0200.png","img/dial/R0006_0400.png","img/dial/R0006_0600.png","img/dial/R0006_0800.png","img/dial/R0006_0990.png"],"m":{"d":{"mean":[499.481,496.552,495.269,494.656,494.301,494.102],"sd":[0.0,0.116,0.139,0.176,0.139,0.136]},"c":{"mean":[0.656,1.164,1.168,1.166,1.166,1.165],"sd":[0.0,0.006,0.005,0.007,0.007,0.008]},"s":{"mean":[0.968,0.994,0.995,0.995,0.996,0.995],"sd":[0.0,0.001,0.0,0.001,0.0,0.001]},"n":{"mean":[1.0,1.0,1.0,1.0,1.0,1.0],"sd":[0.0,0.0,0.0,0.0,0.0,0.0]}}}]},{"key":"temp","name":"Motility","desc":"How much random movement cell edges make.","levels":[{"label":"low","value":2.0,"vid":"R0007","seeds":6,"frames":["img/dial/R0007_0000.png","img/dial/R0007_0200.png","img/dial/R0007_0400.png","img/dial/R0007_0600.png","img/dial/R0007_0800.png","img/dial/R0007_0990.png"],"m":{"d":{"mean":[499.481,499.276,499.236,499.215,499.193,499.183],"sd":[0.0,0.008,0.011,0.015,0.012,0.015]},"c":{"mean":[0.656,1.021,1.029,1.032,1.033,1.033],"sd":[0.0,0.004,0.002,0.003,0.003,0.004]},"s":{"mean":[0.968,0.986,0.986,0.986,0.986,0.986],"sd":[0.0,0.0,0.0,0.0,0.0,0.0]},"n":{"mean":[1.0,1.0,1.0,1.0,1.0,1.0],"sd":[0.0,0.0,0.0,0.0,0.0,0.0]}}},{"label":"mid","value":30.0,"vid":"R0008","seeds":6,"frames":["img/dial/R0008_0000.png","img/dial/R0008_0200.png","img/dial/R0008_0400.png","img/dial/R0008_0600.png","img/dial/R0008_0800.png","img/dial/R0008_0990.png"],"m":{"d":{"mean":[499.481,496.308,495.258,494.708,494.498,494.424],"sd":[0.0,0.053,0.112,0.029,0.087,0.123]},"c":{"mean":[0.656,1.101,1.11,1.114,1.11,1.111],"sd":[0.0,0.007,0.01,0.003,0.005,0.01]},"s":{"mean":[0.968,0.989,0.99,0.991,0.991,0.991],"sd":[0.0,0.001,0.001,0.001,0.0,0.001]},"n":{"mean":[1.0,1.0,1.0,1.0,1.0,1.0],"sd":[0.0,0.0,0.0,0.0,0.0,0.0]}}},{"label":"high","value":75.0,"vid":"R0009","seeds":6,"frames":["img/dial/R0009_0000.png","img/dial/R0009_0200.png","img/dial/R0009_0400.png","img/dial/R0009_0600.png","img/dial/R0009_0800.png","img/dial/R0009_0990.png"],"m":{"d":{"mean":[499.481,496.051,494.902,494.413,494.193,494.149],"sd":[0.0,0.211,0.179,0.107,0.118,0.193]},"c":{"mean":[0.656,0.966,0.985,0.993,0.989,0.985],"sd":[0.0,0.012,0.012,0.014,0.007,0.023]},"s":{"mean":[0.968,0.985,0.986,0.987,0.987,0.987],"sd":[0.0,0.001,0.001,0.001,0.001,0.001]},"n":{"mean":[1.0,1.0,1.0,1.0,1.0,1.0],"sd":[0.0,0.0,0.0,0.0,0.0,0.0]}}}]},{"key":"lambda","name":"Size stiffness","desc":"How strictly each cell keeps its target size.","levels":[{"label":"low","value":0.1,"vid":"R0010","seeds":6,"frames":["img/dial/R0010_0000.png","img/dial/R0010_0200.png","img/dial/R0010_0400.png","img/dial/R0010_0600.png","img/dial/R0010_0800.png","img/dial/R0010_0990.png"],"m":{"d":{"mean":[499.481,488.7,481.88,476.695,472.194,468.491],"sd":[0.0,0.323,0.43,0.446,0.387,0.461]},"c":{"mean":[0.656,1.084,1.08,1.086,1.091,1.093],"sd":[0.0,0.008,0.01,0.005,0.012,0.006]},"s":{"mean":[0.968,0.988,0.988,0.989,0.99,0.99],"sd":[0.0,0.001,0.001,0.001,0.001,0.001]},"n":{"mean":[1.0,1.0,1.0,1.0,1.0,1.0],"sd":[0.0,0.0,0.0,0.0,0.0,0.0]}}},{"label":"mid","value":2.5,"vid":"R0011","seeds":6,"frames":["img/dial/R0011_0000.png","img/dial/R0011_0200.png","img/dial/R0011_0400.png","img/dial/R0011_0600.png","img/dial/R0011_0800.png","img/dial/R0011_0990.png"],"m":{"d":{"mean":[499.481,497.082,496.632,496.524,496.558,496.558],"sd":[0.0,0.107,0.115,0.105,0.135,0.085]},"c":{"mean":[0.656,1.082,1.095,1.092,1.099,1.091],"sd":[0.0,0.013,0.006,0.014,0.01,0.01]},"s":{"mean":[0.968,0.989,0.99,0.989,0.99,0.99],"sd":[0.0,0.0,0.0,0.001,0.001,0.001]},"n":{"mean":[1.0,1.0,1.0,1.0,1.0,1.0],"sd":[0.0,0.0,0.0,0.0,0.0,0.0]}}},{"label":"high","value":20.0,"vid":"R0012","seeds":6,"frames":["img/dial/R0012_0000.png","img/dial/R0012_0200.png","img/dial/R0012_0400.png","img/dial/R0012_0600.png","img/dial/R0012_0800.png","img/dial/R0012_0990.png"],"m":{"d":{"mean":[499.481,499.115,499.109,499.133,499.129,499.133],"sd":[0.0,0.031,0.036,0.03,0.023,0.022]},"c":{"mean":[0.656,1.076,1.087,1.09,1.091,1.095],"sd":[0.0,0.005,0.008,0.01,0.01,0.012]},"s":{"mean":[0.968,0.989,0.99,0.99,0.99,0.99],"sd":[0.0,0.001,0.0,0.001,0.001,0.001]},"n":{"mean":[1.0,1.0,1.0,1.0,1.0,1.0],"sd":[0.0,0.0,0.0,0.0,0.0,0.0]}}}]},{"key":"contact_no","name":"Contact range","desc":"How far apart pixels can be and still count as touching.","levels":[{"label":"low","value":1.0,"vid":"R0013","seeds":6,"frames":["img/dial/R0013_0000.png","img/dial/R0013_0200.png","img/dial/R0013_0400.png","img/dial/R0013_0600.png","img/dial/R0013_0800.png","img/dial/R0013_0990.png"],"m":{"d":{"mean":[499.481,498.67,498.533,498.538,498.585,498.509],"sd":[0.0,0.127,0.083,0.107,0.154,0.049]},"c":{"mean":[0.656,0.69,0.704,0.706,0.71,0.713],"sd":[0.0,0.023,0.022,0.03,0.025,0.016]},"s":{"mean":[0.968,0.972,0.974,0.975,0.975,0.976],"sd":[0.0,0.002,0.001,0.003,0.002,0.001]},"n":{"mean":[1.0,1.0,1.0,1.0,1.0,1.0],"sd":[0.0,0.0,0.0,0.0,0.0,0.0]}}},{"label":"mid","value":5.0,"vid":"R0014","seeds":6,"frames":["img/dial/R0014_0000.png","img/dial/R0014_0200.png","img/dial/R0014_0400.png","img/dial/R0014_0600.png","img/dial/R0014_0800.png","img/dial/R0014_0990.png"],"m":{"d":{"mean":[499.481,495.343,494.059,493.336,492.99,492.863],"sd":[0.0,0.174,0.111,0.113,0.193,0.233]},"c":{"mean":[0.656,1.144,1.152,1.149,1.146,1.153],"sd":[0.0,0.011,0.007,0.006,0.01,0.011]},"s":{"mean":[0.968,0.989,0.989,0.989,0.989,0.989],"sd":[0.0,0.001,0.001,0.001,0.001,0.001]},"n":{"mean":[1.0,1.0,1.0,1.0,1.0,1.0],"sd":[0.0,0.0,0.0,0.0,0.0,0.0]}}},{"label":"high","value":8.0,"vid":"R0015","seeds":6,"frames":["img/dial/R0015_0000.png","img/dial/R0015_0200.png","img/dial/R0015_0400.png","img/dial/R0015_0600.png","img/dial/R0015_0800.png","img/dial/R0015_0990.png"],"m":{"d":{"mean":[499.481,491.545,488.449,486.722,485.518,484.858],"sd":[0.0,0.077,0.086,0.079,0.069,0.077]},"c":{"mean":[0.656,1.162,1.162,1.163,1.164,1.165],"sd":[0.0,0.005,0.01,0.01,0.006,0.007]},"s":{"mean":[0.968,0.992,0.992,0.992,0.992,0.992],"sd":[0.0,0.001,0.001,0.001,0.001,0.001]},"n":{"mean":[1.0,1.0,1.0,1.0,1.0,1.0],"sd":[0.0,0.0,0.0,0.0,0.0,0.0]}}}]},{"key":"init_width","name":"Starting cell size","desc":"Size of each cell at the start, which sets how many cells fill the same blob.","levels":[{"label":"low","value":10.0,"vid":"R0016","seeds":6,"frames":["img/dial/R0016_0000.png","img/dial/R0016_0200.png","img/dial/R0016_0400.png","img/dial/R0016_0600.png","img/dial/R0016_0800.png","img/dial/R0016_0990.png"],"m":{"d":{"mean":[499.682,491.666,487.906,485.456,483.466,481.881],"sd":[0.0,0.246,0.161,0.125,0.19,0.167]},"c":{"mean":[0.655,1.098,1.107,1.108,1.106,1.111],"sd":[0.0,0.01,0.01,0.012,0.01,0.008]},"s":{"mean":[0.978,0.991,0.992,0.993,0.993,0.992],"sd":[0.0,0.001,0.001,0.001,0.0,0.001]},"n":{"mean":[1.0,1.0,1.0,1.0,1.0,1.0],"sd":[0.0,0.0,0.0,0.0,0.0,0.0]}}},{"label":"mid","value":14.0,"vid":"R0017","seeds":6,"frames":["img/dial/R0017_0000.png","img/dial/R0017_0200.png","img/dial/R0017_0400.png","img/dial/R0017_0600.png","img/dial/R0017_0800.png","img/dial/R0017_0990.png"],"m":{"d":{"mean":[499.305,494.721,492.816,491.758,491.086,490.687],"sd":[0.0,0.089,0.14,0.191,0.233,0.238]},"c":{"mean":[0.668,1.082,1.086,1.095,1.089,1.095],"sd":[0.0,0.014,0.012,0.011,0.007,0.006]},"s":{"mean":[0.975,0.99,0.99,0.991,0.99,0.991],"sd":[0.0,0.001,0.001,0.001,0.001,0.001]},"n":{"mean":[1.0,1.0,1.0,1.0,1.0,1.0],"sd":[0.0,0.0,0.0,0.0,0.0,0.0]}}},{"label":"high","value":20.0,"vid":"R0018","seeds":6,"frames":["img/dial/R0018_0000.png","img/dial/R0018_0200.png","img/dial/R0018_0400.png","img/dial/R0018_0600.png","img/dial/R0018_0800.png","img/dial/R0018_0990.png"],"m":{"d":{"mean":[499.555,497.152,496.564,496.322,496.352,496.223],"sd":[0.0,0.1,0.145,0.119,0.111,0.125]},"c":{"mean":[0.635,1.073,1.08,1.089,1.089,1.087],"sd":[0.0,0.009,0.007,0.01,0.013,0.011]},"s":{"mean":[0.958,0.984,0.986,0.987,0.987,0.987],"sd":[0.0,0.001,0.001,0.001,0.001,0.001]},"n":{"mean":[1.0,1.0,1.0,1.0,1.0,1.0],"sd":[0.0,0.0,0.0,0.0,0.0,0.0]}}}]}]};

diff --git a/console_core.js b/console_core.js
@@ -60,9 +60,9 @@ var Console = (function () {
     { id: "t1", s: "tested", ph: "Thesis", t: "Pseudo-label training", n: "better in 1 of 5 folds", go: "models", d: "Fine-tuning on machine-made labels reached Dice 0.811 against 0.826 for the rule-based labels it learned from. Not adopted." },
     { id: "t2", s: "tested", ph: "Thesis", t: "Mask cleanup", n: "+0.04 Dice, no better measurements", go: "models", d: "Removing small fragments lifted nnU-Net Dice from 0.757 to 0.799, but agreement with the expert fell from 0.305 to 0.285. Pixel gains alone were not kept." },
     { id: "t3", s: "tested", ph: "Thesis", t: "Perfect-mask ceiling", n: "no extra parameter", go: "ident", d: "Re-running inference on hand-traced masks made no extra parameter recoverable, so the limit sits in the simulator, not the segmenter." },
-    { id: "r1", s: "done", ph: "Paper", t: "Chemical attraction pilot", n: "passes the bar on size", go: "dials", d: "Cells release a signal and move along its gradient. Size responds strongly and in order: repulsion (−15) ends at 1.37× the start area, no signal at 0.98×, attraction (+30) at 0.48×. That is about 300 times the spread between replicates, far above the design's bar of 3. Pilot based on 24 of 42 runs; the strength range is still a placeholder." },
-    { id: "r2", s: "done", ph: "Paper", t: "Growth-stopped core pilot", n: "small, consistent effect", go: "dials", d: "Cells grow at the rim and stop below a set depth. A larger stopped core slows growth step by step: from 1.12× to 1.04× the start area. Very consistent across replicates, so it clears the bar on size, but not on roundness or solidity. Pilot based on 26 of 36 runs." },
-    { id: "r4", s: "running", ph: "Paper", t: "Remaining pilot runs", n: "18 + 10 runs", go: "dials", d: "The downloads held 24 of 42 chemical-attraction runs and 26 of 36 growth-stopped-core runs, with no run yet of the strongest repulsion (−30) or of the core control that should change nothing. Their status on Snellius still has to be checked." },
+    { id: "r1", s: "done", ph: "Paper", t: "Chemical attraction", n: "42 runs, passes the bar", go: "dials", d: "Cells release a signal and move along its gradient. Size responds strongly and in order across the full range: strongest repulsion (−30) ends at 1.64× the start area and splits into about four pieces, no signal at 0.98×, strongest attraction (+30) at 0.48×. That is over 100 times the spread between replicates, far above the design's bar of 3. The strength range is still a placeholder." },
+    { id: "r2", s: "done", ph: "Paper", t: "Growth-stopped core", n: "36 runs, small consistent effect", go: "dials", d: "Cells grow at the rim and stop below a set depth. The control that should change nothing (1.11× the start area) matches the mildest setting, as it should; a larger stopped core then slows growth step by step to 1.04×. Very consistent across replicates, so it clears the bar on size, but not on roundness or solidity." },
+    { id: "r4", s: "done", ph: "Paper", t: "Cancelled runs recovered", n: "28 runs re-run", go: "dials", d: "28 runs were cancelled by the cluster within a second of starting, before any work was done. They were resubmitted, all 28 completed, and the results were merged after checking that overlapping runs were identical." },
     { id: "r3", s: "running", ph: "Paper", t: "Real growth rates", n: "152 wells", go: "data", d: "Measuring start size and growth directly from 152 real wells, to anchor the simulations to the films." },
     { id: "p1", s: "planned", ph: "Paper", t: "Time calibration", n: "steps to hours", go: "sim", d: "Map simulation steps to real hours using the IncuCyte timestamps stored with every frame." },
     { id: "p2", s: "planned", ph: "Paper", t: "Re-infer drug panel", n: "extended library", go: "drugs", d: "Repeat the drug-panel inference with the extended simulation library." },
@@ -75,7 +75,7 @@ var Console = (function () {
     aug: { crumb: "Model performance", t: "Augmentation", d: "Offline, 51 traced frames became 306 pairs. Online, the U-Net saw a fresh random distortion of every image each epoch. The coverage check shows brightness is the one condition the training set under-samples.", tools: ["Albumentations", "NumPy"], render: function (el) { el.innerHTML = '<div id="ins-cv"></div><ul class="recipe"><li>Flips, 90° turns<span>p 0.5</span></li><li>Shift, scale ±20%, rotate ±30°<span>p 0.7</span></li><li>Elastic warp<span>p 0.4</span></li><li>Grid distortion<span>p 0.3</span></li><li>Brightness, contrast ±30%<span>p 0.7</span></li><li>Gaussian noise<span>p 0.4</span></li><li>Gaussian blur<span>p 0.3</span></li><li>8 dropout holes of 32 px<span>p 0.3</span></li></ul>'; chartCoverage(el.querySelector("#ins-cv")); } },
     ablation: { crumb: "Model performance", t: "Why " + fmt(heavy.dice) + " Dice", d: "Thirteen U-Net runs, each changing one setting. The only change between the baseline (" + fmt(base.dice) + ") and the winner (" + fmt(heavy.dice) + ") is the heavy augmentation policy. Freezing the pretrained encoder hurt every time. Dice measures pixel overlap with the expert outline on 45 unseen test images.", tools: ["PyTorch", "segmentation_models_pytorch", "early stopping"] },
     models: { crumb: "Model performance", t: "Pixels are not measurements", d: "The simulator only sees shape numbers, so models were also ranked by Lin's concordance between their measurements and the expert's. nnU-Net with cleanup reaches " + fmt(cleanup.dice) + " Dice but only " + fmt(cleanup.ccc) + " agreement. Only the heavy-augmentation U-Net clears 0.85, on area and diameter.", tools: ["nnU-Net", "SAM2", "Lin's CCC", "ICC"], render: function (el) { el.innerHTML = '<p class="ins-sub">U-Net, heavy augmentation, per measurement</p><div id="ins-ft"></div>'; chartFeatures(el.querySelector("#ins-ft"), unet.label); } },
-    dials: { crumb: "Simulation", t: "Turn a dial, watch the simulation", d: "The six original dials were re-run on the Snellius supercomputer at three settings with six replicate seeds, holding every other dial fixed: 108 runs. Two new mechanisms were added as pilots: chemical attraction (the green glow is the signal the cells release) and a growth-stopped core. Chemical attraction is the first dial that changes size strongly. The spheroid shows one replicate; the chart shows the mean and spread of all six. Step 0 is the pixelated starting blob, so most change happens in the first 200 steps. Most dials change roundness more than size; only cell-medium contact energy dissolves the cluster. A full Saltelli sweep over the new dials is planned, which will let every combination be explored.", tools: ["CompuCell3D", "SLURM job arrays", "one-at-a-time design"] },
+    dials: { crumb: "Simulation", t: "Turn a dial, watch the simulation", d: "The six original dials were re-run on the Snellius supercomputer at three settings with six replicate seeds, holding every other dial fixed: 108 runs. Two new mechanisms were added: chemical attraction (42 runs; the green glow is the signal the cells release) and a growth-stopped core (36 runs). Chemical attraction is the first dial that changes size strongly. The spheroid shows one replicate; the chart shows the mean and spread of all six. Step 0 is the pixelated starting blob, so most change happens in the first 200 steps. Most dials change roundness more than size; only cell-medium contact energy dissolves the cluster. A full Saltelli sweep over the new dials is planned, which will let every combination be explored.", tools: ["CompuCell3D", "SLURM job arrays", "one-at-a-time design"] },
     film: { crumb: "Time-lapse", t: "Real wells against simulated spheroids", d: "Hourly brightfield frames of four wells from one patient sample (VID1797), filmed for 72 hours: two untreated and two with entospletinib, with and without stimulation. These four were chosen for steady segmentation across all frames. Area comes from the segmentation, relative to the first frame. Next to them, three simulations from the re-run library play in step. Real hours and simulation steps are not calibrated against each other yet; that calibration is a planned work item.", tools: ["IncuCyte", "segmentation", "CompuCell3D"] },
     seg: { crumb: "Segmentation", t: "Reading the segmentation panel", d: "Green is the expert tracing, gold is the model. The matrix gives pixel Dice for each held-out well and model; click a cell to load it. F3 is a drug-fragmented well and the hardest case for every model.", tools: ["U-Net", "SAM2", "nnU-Net", "rule-based"] },
     sim: { crumb: "Simulation", t: "A library of virtual spheroids", d: "A Cellular Potts model treats each cell as a patch of pixels that pulls on its neighbours. 1,152 parameter sets over seven parameters; 1,105 runs completed on Snellius.", tools: ["CompuCell3D", "Saltelli design", "SLURM"], render: function (el) { el.innerHTML = '<div class="sims ins-sims" id="ins-sg"></div>'; simGallery(el.querySelector("#ins-sg"), 8); } },

diff --git a/console_dials.js b/console_dials.js
@@ -62,7 +62,7 @@ var Dials = (function () {
     rg.setAttribute("aria-valuetext", lv.label + ", " + lv.value);
     root.querySelector("#dial-name").textContent = D.name;
     root.querySelector("#dial-desc").textContent = D.desc;
-    root.querySelector("#dial-partial").textContent = D.partial ? "Pilot result, " + D.partial + "." : "";
+    root.querySelector("#dial-partial").textContent = D.partial ? D.partial + "." : "";
     root.querySelector("#dial-val").innerHTML = "<b>" + (D.new ? lv.label : lv.label + " " + lv.value) + "</b>, " + lv.seeds + (lv.expected && lv.seeds < lv.expected ? " of " + lv.expected : "") + " replicate" + (lv.seeds === 1 ? "" : "s");
     root.querySelector(".dial-ticks").innerHTML = D.levels.map(function (q, i) { return '<span class="' + (i === li ? "on" : "") + '">' + (D.new ? q.label : q.label + " " + q.value) + "</span>"; }).join("");
     root.querySelector(".dial-ends").innerHTML = D.levels.map(function (q, i) { return '<button type="button" aria-pressed="' + (i === li) + '"><img alt="End state, ' + q.label + '" src="' + q.frames[q.frames.length - 1] + '"><span>' + q.label + "</span></button>"; }).join("");
